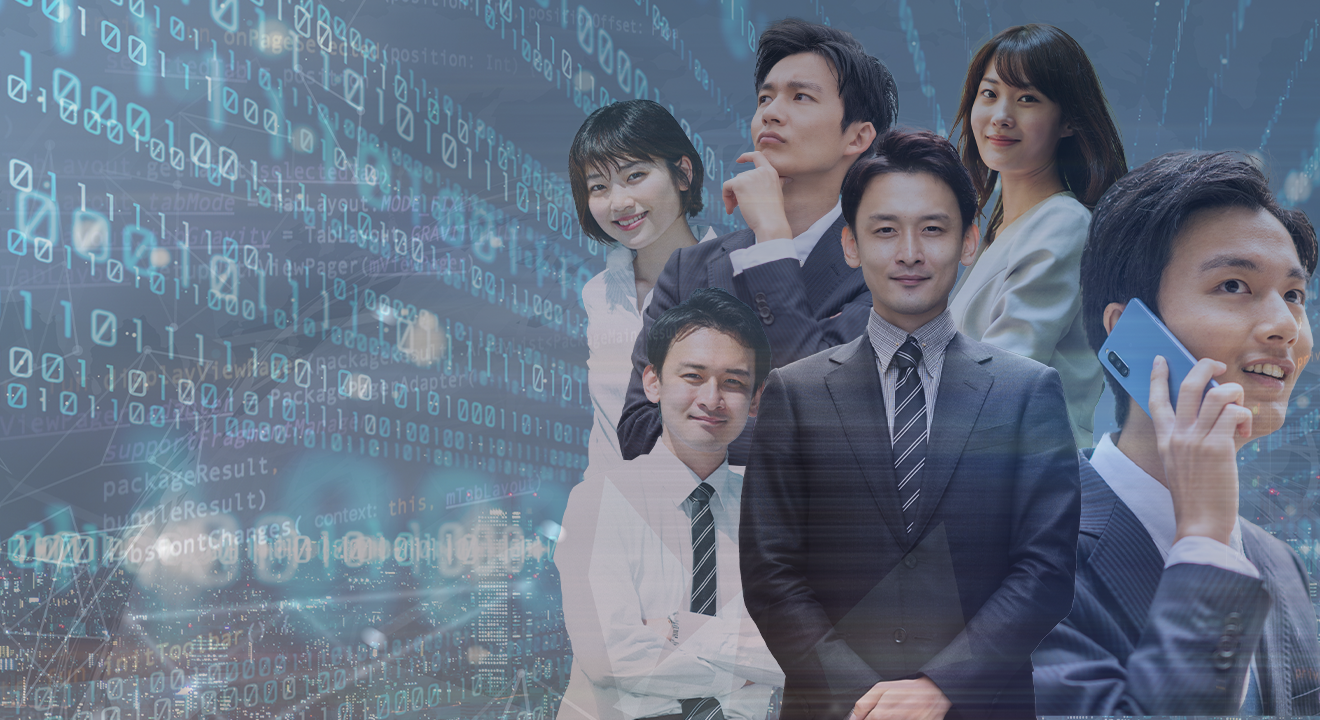
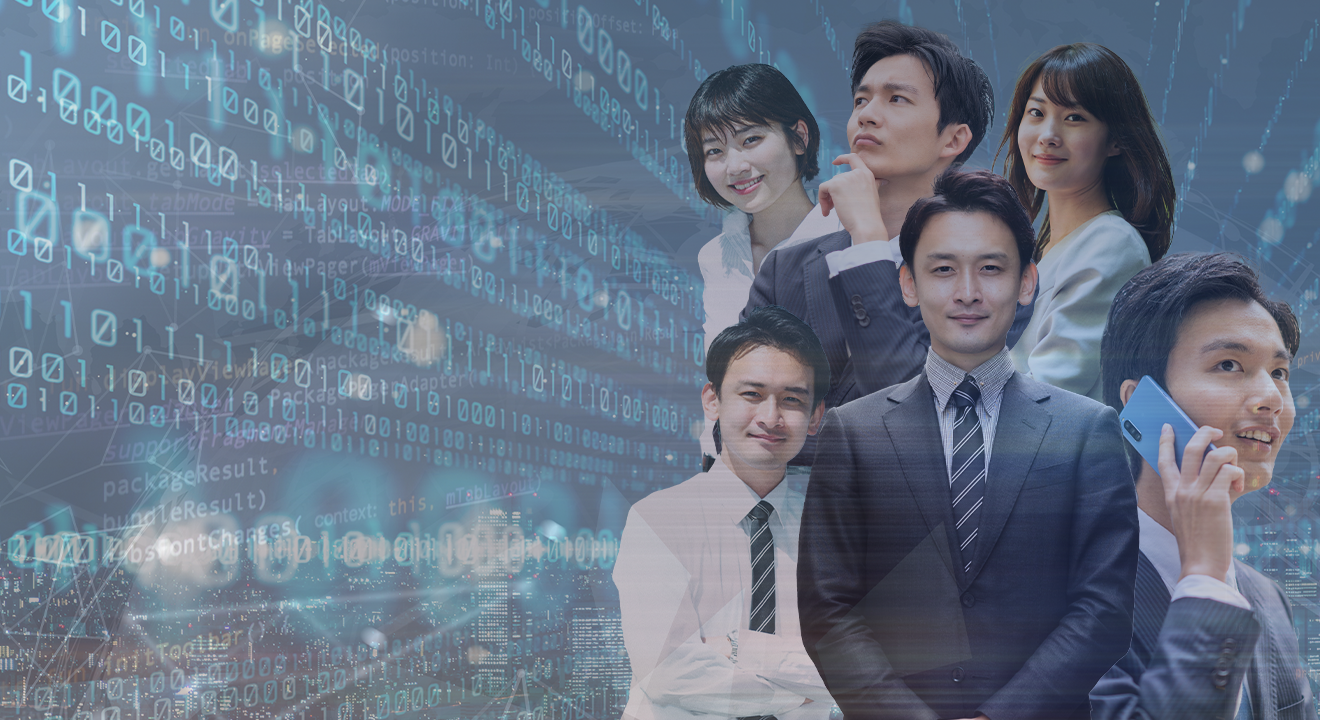
0214

diff --git a/dilp3/htmlstyle.css b/dilp3/htmlstyle.css
@@ -287,9 +287,13 @@ header li+li {
   font-size: 30px;
   text-align: center;
   color: #155492;
-
 }
 
+h2 {
+  font-size: 40px;
+  text-align: center;
+  color: #033474
+}
 
 /* first_viewPC */
 .first_view {
@@ -297,8 +301,8 @@ header li+li {
   background-size: cover;
   background-repeat: no-repeat;
   background: contain;
-  background-position: center;
-  min-height: 200px;
+  background-position: right;
+  /* min-height: 200px; */
   width: 100%;
   overflow: hidden;
 
@@ -318,6 +322,7 @@ header li+li {
 
 .first_view h2 {
   font-size: 28px;
+  text-align-last: left;
 }
 
 .first_view h2 span {
@@ -389,6 +394,10 @@ header li+li {
 
 
 /* trouble */
+.trouble-relative {
+  position: relative;
+}
+
 .trouble-title {
   margin: 80px auto 16px;
 }
@@ -398,29 +407,26 @@ header li+li {
 
 }
 
-.trouble-relative {
-  position: relative;
-}
-
 .trouble-corner {
   background-color: #ebebeb;
   width: 90%;
   margin: 0 auto;
+  box-shadow: 0px 5px 15px 0px rgba(0, 0, 0, 0.35);
   position: absolute;
-  top: 0;
+  top: -650px;
   left: 50%;
   transform: translateX(-50%);
   -webkit-transform: translateX(-50%);
   -ms-transform: translateX(-50%);
-  z-index: 3;
-  box-shadow: 0px 5px 15px 0px rgba(0, 0, 0, 0.35);
 }
+
+
 
 
 .trouble-box {
   width: 80%;
   margin: 0 auto;
-
+  width: 90%;
 }
 
 .trouble-box p {
@@ -492,13 +498,7 @@ header li+li {
   background-color: #155492;
   text-align: center;
   padding: 160px 0;
-  position: absolute;
-  bottom: -1040px;
-  left: 50%;
-  transform: translateX(-50%);
-  -webkit-transform: translateX(-50%);
-  -ms-transform: translateX(-50%);
-  width: 100%;
+  margin-top: 700px;
 }
 
 .trouble-bottom h2 {
@@ -511,6 +511,49 @@ header li+li {
   color: white;
   padding-top: 24px;
 }
+
+
+
+/* pr */
+.pr {
+  background-color: #ebebeb;
+  position: static;
+}
+
+.pr-corner li {
+  display: flex;
+  justify-content: center;
+  align-items: stretch;
+  background-color: white;
+  width: 90%;
+  margin: 0 auto;
+  padding: 40px;
+  gap: 32px;
+}
+
+.pr-corner li:first-child {
+  margin-top: 40px;
+}
+
+.pr-corner li+li {
+  margin-top: 32px;
+}
+
+.pr-iconimg img {
+  width: 100px;
+}
+
+.pr-textbox h3 {
+  color: #002e71;
+  text-align: center;
+  font-size: 26px;
+  margin-bottom: 24px;
+}
+
+.pr-textbox p {
+  font-size: 16px;
+}
+
 
 
 

diff --git a/dilp3/index.php b/dilp3/index.php
@@ -183,7 +183,46 @@
                 </div>
             </div>
         </section>
+        <section class="pr section">
+            <h2>D.I.Worksを利用する3つのメリット</h2>
+            <div class="pr-corner">
+                <ul>
+                    <li>
+                        <div class="pr-iconimg">
+                            <img src="img/check.png" alt="TOPmainビジュアル画像">
+                        </div>
+                        <div class="pr-textbox">
+                            <h3>日本全国どこでも最適人材をマッチング</h3>
+                            <p>全てのコーディネータが現場経験をしているからこそ知識も豊富で企業様の要望に的確に対応でき最適なスタッフをご紹介できることがD.I.Worksの特徴でもあります。企業様の要望にどのような人材が必要かはスキルだけでなく求められる人柄や会社の雰囲気に合う人材の選定に自信があります。</p>
+                        </div>
+                    </li>
+                    <li>
+                        <div class="pr-iconimg">
+                            <img src="img/check.png" alt="TOPmainビジュアル画像">
+                        </div>
+                        <div class="pr-textbox">
+                            <h3>最短翌営業日に
+                                紹介可能なスピード対応</h3>
+                            <p>ご依頼後、最短で翌営業日に人材をご紹介いたします。D.I.Worksの特徴でもこのスピード感は様々な企業様のご要望にお応えできるようにするため全国にある拠点に様々な職種を経験したスタッフは配置しております。</p>
+                        </div>
+                    </li>
+                    <li>
+                        <div class="pr-iconimg">
+                            <img src="img/check.png" alt="TOPmainビジュアル画像">
+                        </div>
+                        <div class="pr-textbox">
+                            <h3>優秀な人材は
+                                貴社の正社員へ</h3>
+                            <p>紹介予定派遣なら派遣スタッフを貴社で直接雇用ができます。最長6ヶ月の派遣期間終了後、貴社の正社員や直接雇用が可能です。詳しくはお問い合わせください。</p>
+                        </div>
+                    </li>
 
+
+                </ul>
+
+            </div>
+
+        </section>
 
 
 
